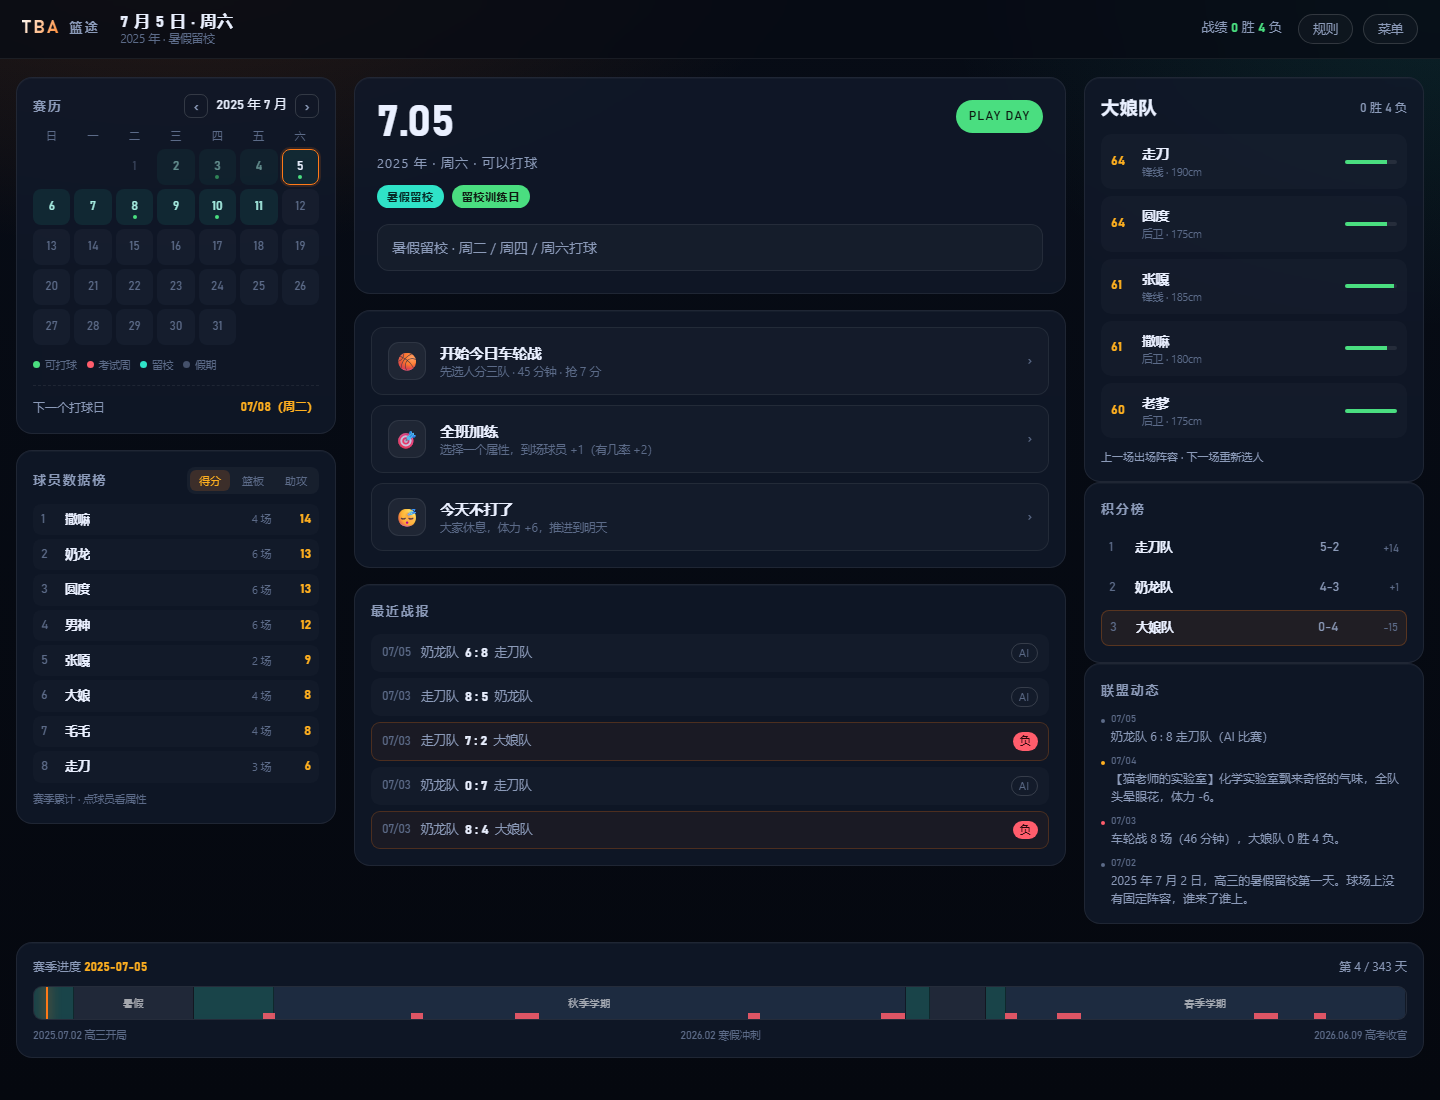
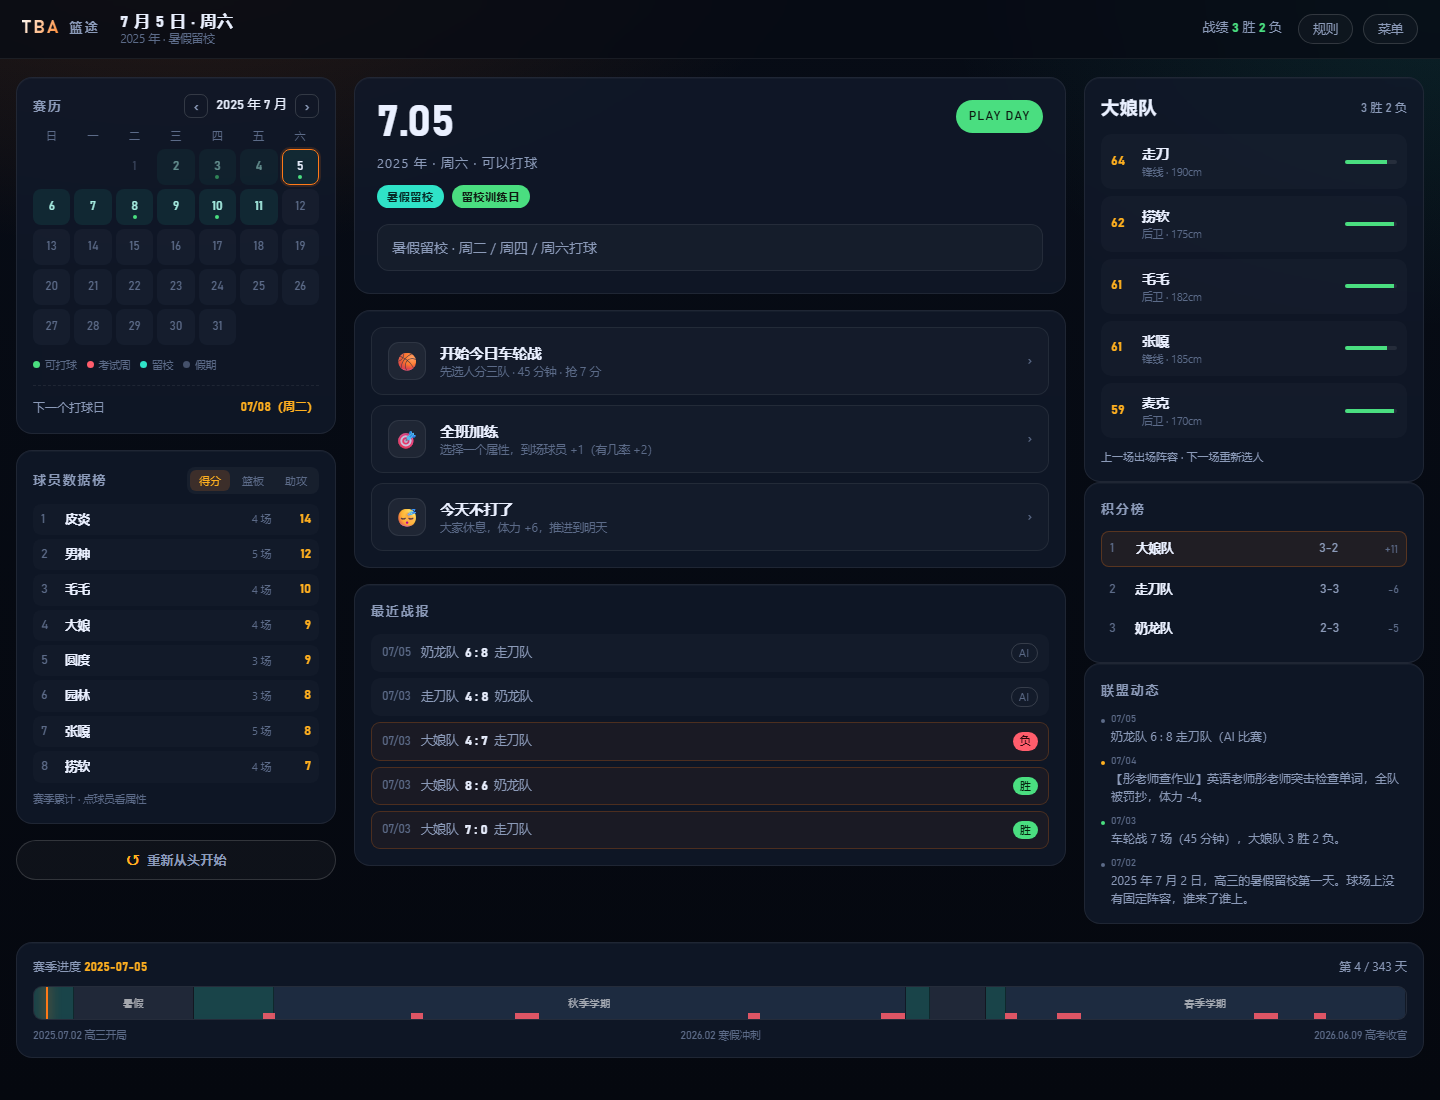
v1.2.1: 左下角新增重新从头开始按钮

diff --git a/assets/js/ui.js b/assets/js/ui.js
@@ -845,6 +845,25 @@
   }
 
   /* ============================================================
+   * 重新开始
+   * ============================================================ */
+  function openRestartConfirm() {
+    openModal(`${modalHead('重新从头开始', '当前赛季进度会清空，且无法恢复')}
+      <p class="muted">要从 2025 年 7 月 2 日重新开始吗？球员数据、战绩、积分榜都会清零。</p>
+      <div class="modal-actions">
+        <button class="btn btn-ghost" data-close="1">取消</button>
+        <button class="btn btn-primary" id="btn-confirm-restart">重新开始</button>
+      </div>`);
+    $('#btn-confirm-restart').addEventListener('click', () => {
+      closeModal();
+      Game.clearSave();
+      Game.state = null;
+      Game.create();
+      render();
+    });
+  }
+
+  /* ============================================================
    * 结算页
    * ============================================================ */
   function renderEnd() {
@@ -961,6 +980,7 @@
     });
     $('#btn-rules-main').addEventListener('click', openRules);
     $('#btn-menu').addEventListener('click', openMenu);
+    $('#btn-restart-quick').addEventListener('click', openRestartConfirm);
 
     // 结算页（动态元素用事件委托）
     $('#screen-end').addEventListener('click', e => {

diff --git a/index.html b/index.html
@@ -38,7 +38,7 @@
 
         <div class="title-main">
           <div class="title-copy">
-            <p class="eyebrow">SENIOR YEAR · 雏形版 v1.2.0</p>
+            <p class="eyebrow">SENIOR YEAR · 雏形版 v1.2.1</p>
             <h1>篮途<em>模拟器</em></h1>
             <p class="lead">高三这一年，体育课只有四十分钟，考试周却能天天打球。<br />你叫大娘，建队核心之一，也是场上的大前锋。</p>
 
@@ -118,6 +118,10 @@
           </section>
 
           <section class="panel stats-panel" id="stats-panel"></section>
+
+          <button class="btn btn-ghost btn-block restart-btn" id="btn-restart-quick">
+            <span class="restart-ico">↺</span> 重新从头开始
+          </button>
         </div>
 
         <section class="day-column">

diff --git a/assets/css/style.css b/assets/css/style.css
@@ -922,6 +922,9 @@ b, strong { font-weight: 700; }
 
 /* 左下角：球员数据榜 */
 .left-column { display: flex; flex-direction: column; gap: 16px; min-width: 0; }
+.restart-btn { color: var(--muted); font-size: 12.5px; letter-spacing: 0.06em; }
+.restart-btn .restart-ico { color: var(--orange-2); font-size: 15px; line-height: 1; }
+.restart-btn:hover { color: var(--red); border-color: rgba(255, 93, 108, 0.45); background: rgba(255, 93, 108, 0.05); }
 .stats-panel .panel-head { display: flex; align-items: center; justify-content: space-between; gap: 10px; margin-bottom: 10px; }
 .stats-panel .panel-title { margin-bottom: 0; }
 .stat-tabs { display: flex; gap: 3px; background: rgba(255, 255, 255, 0.04); border-radius: 8px; padding: 3px; }

diff --git a/assets/js/data.js b/assets/js/data.js
@@ -9,7 +9,7 @@
   'use strict';
   const TBA = (global.TBA = global.TBA || {});
 
-  TBA.VERSION = '1.2.0';
+  TBA.VERSION = '1.2.1';
   TBA.TITLE = 'TBA 模拟器';
 
   /* 进入游戏需要输入的密钥（本地校验，属于软门槛） */

diff --git a/README.md b/README.md
@@ -6,7 +6,7 @@
 
 你扮演「大娘」——建队核心之一，场上的大前锋。每天到场 15 人，先分三队，再打一轮 45 分钟的车轮战：**输的下场，赢的留场**。
 
-> 当前版本 **v1.2.0**：进入游戏需要输入密钥；只开放「大娘」一个角色，奶龙与走刀待解锁。
+> 当前版本 **v1.2.1**：进入游戏需要输入密钥；只开放「大娘」一个角色，奶龙与走刀待解锁。
 
 ## 开始玩
 
@@ -83,6 +83,7 @@
 - 可打球日点「开始今日车轮战」→ 三队蛇形轮选（你选 4 人）→ 车轮战（可以逐场开打，也可以「自动打完」）→ 45 分钟到点后看当天战报。
 - 车轮战界面下方会显示刚打完那场的球员数据和逐回合赛况，可展开 / 收起。
 - 左下角「球员数据榜」可切换得分 / 篮板 / 助攻，点击球员查看属性。
+- 左下角「重新从头开始」会清空存档、从 2025 年 7 月 2 日重开（需要二次确认）。
 - 点击右侧「上一场出场阵容」里的球员，也可以查看属性详情。
 - `Esc` 关闭弹窗。
 
@@ -118,6 +119,7 @@ node tests/test-core.js
 
 ## 更新日志
 
+- **v1.2.1**：左下角新增「重新从头开始」按钮（二次确认后清空进度重开）。
 - **v1.2.0**：进入游戏需要输入密钥，菜单可重新锁定。详见 [CHANGELOG.md](CHANGELOG.md)。
 - **v1.1.7**：每场给出球员数据和逐回合赛况，左下角新增赛季球员数据榜。
 - **v1.1.6**：每日车轮战——每天先分三队，输的下场、赢的留场，打满 45 分钟；平日抢 7 分、周日抢 21 分。

diff --git a/CHANGELOG.md b/CHANGELOG.md
@@ -1,5 +1,16 @@
 # 更新日志
 
+## v1.2.1
+
+### 新增
+
+- 主界面**左下角新增「重新从头开始」按钮**：点一下会弹确认框，确认后清空存档，从 2025 年 7 月 2 日重新开局（球员数据、战绩、积分榜全部清零）。
+- 重开不会影响密钥解锁状态，不需要重新输入密钥。
+
+### 测试
+
+- 浏览器回归：打完一轮车轮战 → 点「重新从头开始」→ 取消（进度不变）→ 再点并确认 → 日期回到 2025-07-02、战绩 0-0、数据榜清空。
+
 ## v1.2.0
 
 ### 新增：进入游戏需要密钥
